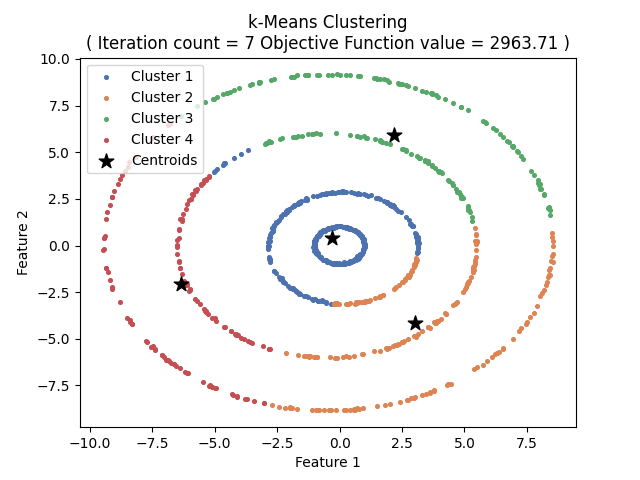
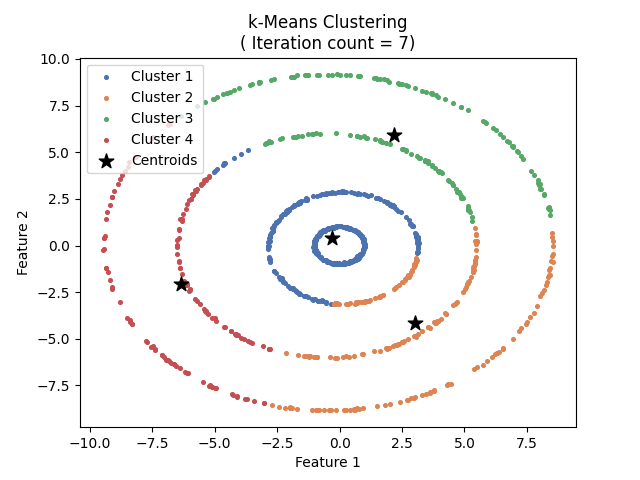
Code clean up and result of run

Changed region(s): [[0.375, 0.0625, 0.875, 0.125], [0.125, 0.0625, 0.3438, 0.125]]

diff --git a/Assignment1/code/utilities/KMeans.py b/Assignment1/code/utilities/KMeans.py
@@ -9,6 +9,17 @@ class KMeans:
         self.random_state = random_state
 
     def fit(self, dataset,initial_centroids):
+        """
+        Apply the cluster operation on given dataset
+
+        Parameters
+        ----------
+        dataset :  Initial dataset 
+        initial_centroids : randomized initial centroids
+        Returns
+        -------        
+        NA
+        """
         self.X = dataset.iloc[:, [0, 1]]  # not use feature labels
         self.m = self.X.shape[0]  # number of training examples
         self.n = self.X.shape[1]  # number of features.    
@@ -18,7 +29,16 @@ class KMeans:
         self.clustering(initial_centroids)
 
     def plot_initial_centroids(self, initial_centroids):
+        """
+        create the graph for initial centroids
 
+        Parameters
+        ----------
+        initial_centroids : randomized initial centroids
+        Returns
+        -------        
+        NA
+        """
         plt.scatter(self.X.iloc[:,0], self.X.iloc[:,1], c='#000000', s=7, label='Data Points')
         plt.scatter(initial_centroids[:, 0], initial_centroids[:, 1], marker='*', s=120, c='r', label='Initial Centroids')
         plt.title('Initial Random Cluster Centers')
@@ -28,7 +48,17 @@ class KMeans:
         plt.draw()
 
     def clustering(self, centroids):
+        """
+        clustering the given data set 
 
+        Parameters
+        ----------
+        centroids 
+
+        Returns
+        -------        
+        NA
+        """
         old_centroids = np.zeros(centroids.shape)
         stopping_criteria = 0.0001
         self.iterating_count = 0
@@ -59,10 +89,20 @@ class KMeans:
 
         self.plot_objective_function_values()
         self.plot_centroids(centroids, clusters)
-        #plt.savefig('plots\Q2\A.png', dpi=300)
-
 
     def plot_centroids(self, centroids, clusters):
+        """
+        plot the centroids
+
+        Parameters
+        ----------
+        centroids 
+        clusters
+        
+        Returns
+        -------        
+        NA
+        """
         colors = ["#4C72B0", "#DD8452", "#55A868", "#C44E52", "#8172B3",
           "#937860", "#DA8BC3", "#8C8C8C", "#CCB974", "#64B5CD"]
         fig, ax = plt.subplots()
@@ -71,14 +111,22 @@ class KMeans:
             ax.scatter(points[:, 0], points[:, 1], s=7, c=colors[i], label='Cluster {}'.format(i + 1))
         ax.scatter(centroids[:, 0], centroids[:, 1], marker='*', s=120, c='#000000', label='Centroids')
 
-        plt.title('k-Means Clustering\n( Iteration count = {} Objective Function value = {:.2f} )'
-                  .format((self.iterating_count), np.array(self.objective_func_values)[self.iterating_count-1, 1]))
+        plt.title('k-Means Clustering\n( Iteration count = {})'.format((self.iterating_count)))
         plt.xlabel('Feature 1')
         plt.ylabel('Feature 2')
         plt.legend()
         plt.draw()
 
     def euclidean_distance(self, a, b):
+        """
+        Calculate the euclidean distance of a and b
+
+        Parameters
+        ----------
+        a and b -> two points
+        -------        
+         return the euclidean distance of a and b
+        """
         return np.sqrt(np.sum((np.array(a) - np.array(b))**2))
 
     def objective_func_calculate(self, clusters, centroids):
@@ -93,8 +141,9 @@ class KMeans:
         return sum(distances_from_centroids)
 
     def plot_objective_function_values(self):
-        """This function plot graph of objective function value for each iteration """
-
+        """
+            This function plot graph of objective function value for each iteration
+        """
         plt.figure()
         plt.plot((np.array(self.objective_func_values)[:, 0] + 1),  np.array(self.objective_func_values)[:, 1], 'bo')
         plt.plot((np.array(self.objective_func_values)[:, 0] + 1), np.array(self.objective_func_values)[:, 1], 'k')
@@ -104,8 +153,9 @@ class KMeans:
         plt.draw()
 
     def save_figures(self, path,k,question_number):
-        """Save all figures plotted with matplotlib to path directory"""
-
+        """
+            Save all figures plotted with matplotlib to path directory
+        """
         # create folder for png files
         if not os.path.isdir(path):
             os.makedirs(path)

diff --git a/Assignment1/code/Q2.py b/Assignment1/code/Q2.py
@@ -3,11 +3,8 @@ import pandas as pd
 import copy
 
 from utilities.KMeans import KMeans
-import utilities.Centroid_initialization as ce
+import utilities.Common as common
 import utilities.SpectralClustering as sc
-import matplotlib.pyplot as plt
-import seaborn as sns
-
 
 if __name__ == '__main__':
 
@@ -20,41 +17,43 @@ if __name__ == '__main__':
     # load datasets from files
     dataset = pd.read_csv(dataset_file, sep=',', header=None)
 
-    # # k = 4 and 5-different random initilization centroids
-    # number_of_cluster = 4
-    # kmeans1 = KMeans(n_cluster=number_of_cluster)
+    # k = 4 and 5-different random initilization centroids
+    number_of_cluster = 4
+    kmeans1 = KMeans(n_cluster=number_of_cluster)
 
-    # for i in range(1, 6):
-    #     # Get the random centroid points everytime
-    #     initial_centroids = ce.random(dataset, number_of_cluster)
-    #     clone = copy.deepcopy(dataset)
+    for i in range(1, 6):
+        # Get the random centroid points everytime
+        initial_centroids = common.random(dataset, number_of_cluster)
+        clone = copy.deepcopy(dataset)
 
-    #     kmeans1.fit(dataset,initial_centroids)
-    #     kmeans1.save_figures('plots/Q2', number_of_cluster, 'Q2a{}'.format(i))
+        kmeans1.fit(dataset,initial_centroids)
+        kmeans1.save_figures('plots/Q2', number_of_cluster, 'Q2a{}'.format(i))
 
 # ############################ Questsion 2 -> (i) Part #######################################
 
-    # print("---------------------------- Q2 - part (ii) Output------------------------")
+    print("---------------------------- Q2 - part (ii) Output------------------------")
     
-    # #fixed initialization and K = {2,3,4,5}
+    #fixed initialization and K = {2,3,4,5}
 
-    # #initialization centroid for cluster
-    # initial_centroids = ce.random(dataset, 2)
+    #initialization centroid for cluster
+    initial_centroids = ce.random(dataset, 2)
 
-    # for i in range(2, 6):
+    for i in range(2, 6):
 
-    #     kmeans1 = KMeans(n_cluster=i)
-    #     clone = copy.deepcopy(dataset)
-    #     initial_centroids = ce.add(clone, i)
+        kmeans1 = KMeans(n_cluster=i)
+        clone = copy.deepcopy(dataset)
+        initial_centroids = common.add(clone, i)
 
-    #     kmeans1.fit(dataset,initial_centroids)
-    #     kmeans1.save_figures('plots/Q2', 4, 'Q2b{}'.format(i))
+        kmeans1.fit(dataset,initial_centroids)
+        kmeans1.save_figures('plots/Q2', 4, 'Q2b{}'.format(i))
 
-    print("---------------------------- Processing completed ------------------------")
+    # print("---------------------------- Processing completed ------------------------")
 
-    data_df = dataset
-    data_df['cluster'] = sc.spectral_clustering(df=data_df, n_neighbors=8, n_clusters=3)
 
-    fig, ax = plt.subplots()
-    sns.scatterplot( data=data_df, hue='cluster', ax=ax)
-    ax.set(title='Spectral Clustering')
+    # data_df =dataset
+    # data_df['cluster'] = sc.spectral_clustering(df=data_df, n_neighbors=8, n_clusters=3)
+
+    # fig, ax = plt.subplots()
+    # sns.scatterplot(x='x', y='y', data=data_df, hue='cluster', ax=ax)
+    # ax.set(title='Spectral Clustering')
+   

diff --git a/Assignment1/code/utilities/common.py b/Assignment1/code/utilities/common.py
@@ -90,3 +90,56 @@ def plot_data(original_data, projected_data, eigenvalues, colour):
     plt.xlabel("x-axis/no of eigen values")
     plt.ylabel("y-axis/eigen vlaues")
     plt.plot([i for i in range(1, len(eigenvalues)+1)], eigenvalues, colour)
+
+
+def random(dataset, k):
+    """
+    Create random cluster centroids.
+
+    Parameters
+    ----------
+    dataset : numpy array
+        The dataset to be used for centroid initialization.
+    k : int
+        The desired number of clusters for which centroids are required.
+    Returns
+    -------
+    centroids : numpy array
+        Collection of k centroids as a numpy array.
+    """
+
+    centroids = []
+    m = np.shape(dataset)[0]
+
+    for _ in range(k):
+        random_number = np.random.randint(0, m-1)
+        centroids.append(np.ravel(dataset.iloc[random_number, :]))
+
+    return np.array(centroids)
+
+
+def add(dataset, k, random_state=42):
+    """
+    Create random cluster centroids.
+
+    Parameters
+    ----------
+    dataset : numpy array
+        The dataset to be used for centroid initialization.
+    k : int
+        The desired number of clusters for which centroids are required.
+    Returns
+    -------
+    centroids : numpy array
+        Collection of k centroids as a numpy array.
+    """
+    np.random.seed(random_state)
+    m = np.shape(dataset)[0]
+
+    centroids = []
+
+    for _ in range(k):
+        random_number = np.random.randint(0, m-1)
+        centroids.append(np.ravel(dataset.iloc[random_number, :]))
+
+    return np.array(centroids)

diff --git a/Assignment1/code/utilities/SpectralClustering.py b/Assignment1/code/utilities/SpectralClustering.py
@@ -1,6 +1,4 @@
 
-
-import imp
 from ipaddress import ip_address
 from sklearn.neighbors import kneighbors_graph
 from scipy import sparse
@@ -9,7 +7,7 @@ from numpy import linalg
 import pandas as pd
 
 from sklearn.cluster import KMeans
-
+## TODO : Need to implement the code 
 def generate_graph_laplacian(df, nn):
     """Generate graph Laplacian from data."""
     # Adjacency Matrix.
@@ -56,3 +54,11 @@ def run_k_means(df, n_clusters):
     k_means.fit(df)
     cluster = k_means.predict(df)
     return cluster
+
+from itertools import chain
+def data_frame_from_coordinates(coordinates): 
+    """From coordinates to data frame."""
+    xs = chain(*[c[0] for c in coordinates])
+    ys = chain(*[c[1] for c in coordinates])
+
+    return pd.DataFrame(data={'x': xs, 'y': ys})

diff --git a/Assignment1/code/utilities/PCA.py b/Assignment1/code/utilities/PCA.py
@@ -62,15 +62,13 @@ def kernalPCA(data, function_pointer, d_value, no_ocmponents):
  
 def polynominal_function(x, y, v):
     """
-    Implementation for this (1 + x^Ty)^d for d = {2,3} function
-
-        """
+        Implementation for this (1 + x^Ty)^d for d = {2,3} function
+    """
     return (1 + x @ y.T)**v
 
 
 def gauusian_function(x, y, p):
     """
-    Implementation for this e^(-(x-y)(x-y)^T / 2*(sigam)^2) for d = {2,3} function
-
-        """
+        Implementation for this e^(-(x-y)(x-y)^T / 2*(sigam)^2) for d = {2,3} function
+    """
     return np.matrix(math.exp(((y-x) @ (x-y).T)/(2*p*p)))
